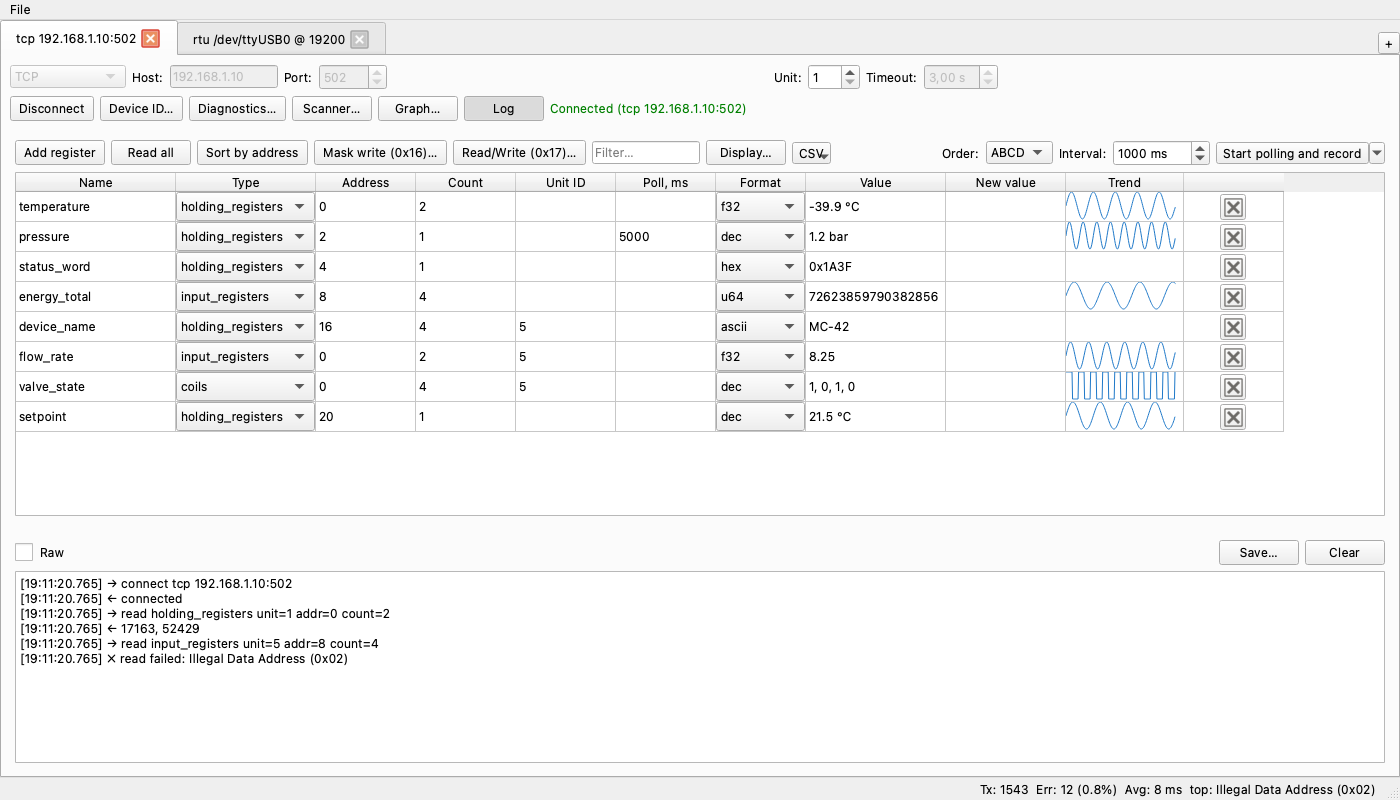
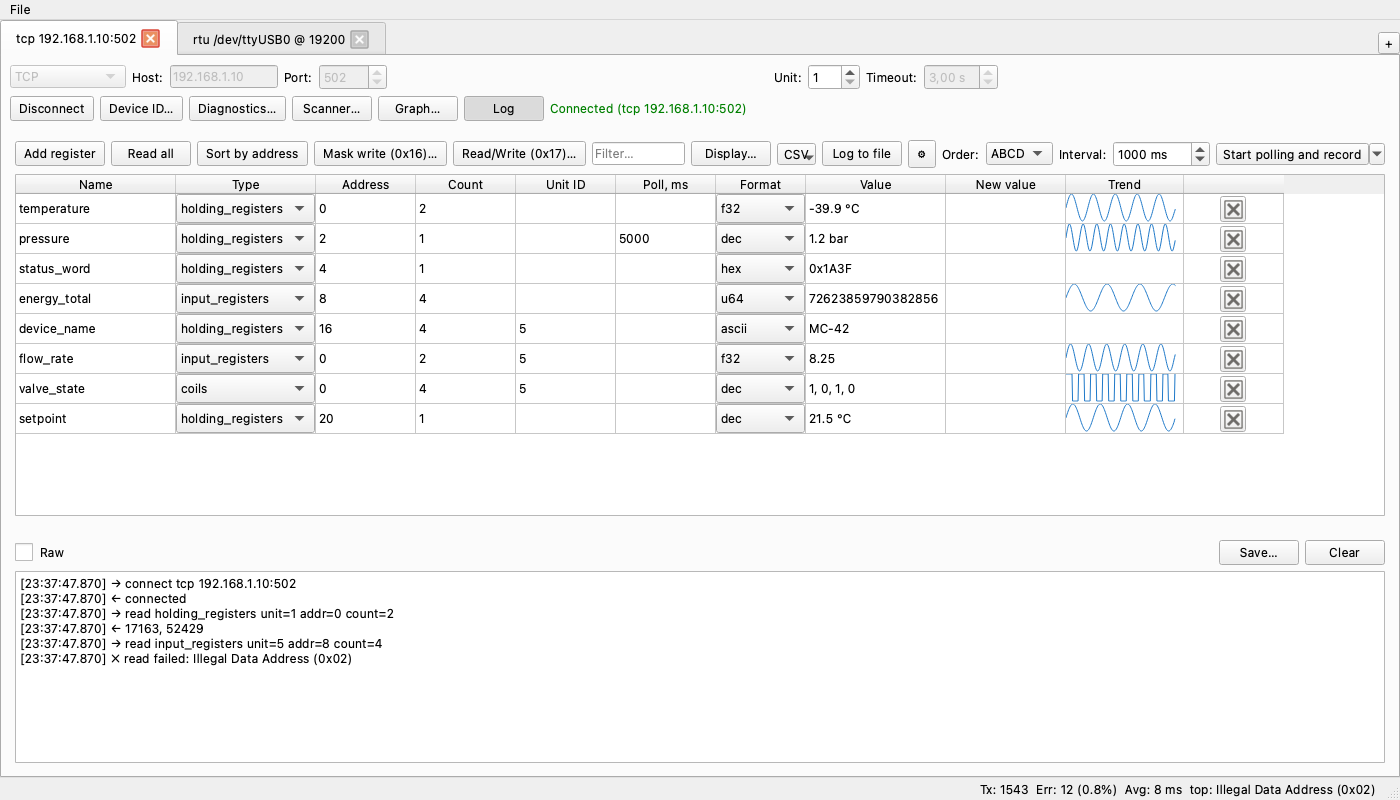
Add the logging dialog screenshot and refresh the main window shot

diff --git a/README.md b/README.md
@@ -77,6 +77,11 @@ CSV import — map file columns to register fields before loading the table:
 
 ![CSV import](docs/screenshots/import_dialog.png)
 
+Logging to a file — write polled values to CSV or JSON Lines: file, format,
+field selection and a per-row checklist (the "⚙" button above the table):
+
+![Logging settings](docs/screenshots/logging_dialog.png)
+
 Address scanner — unit sweep with probes and the register address scan:
 
 ![Scanner](docs/screenshots/scanner.png)
